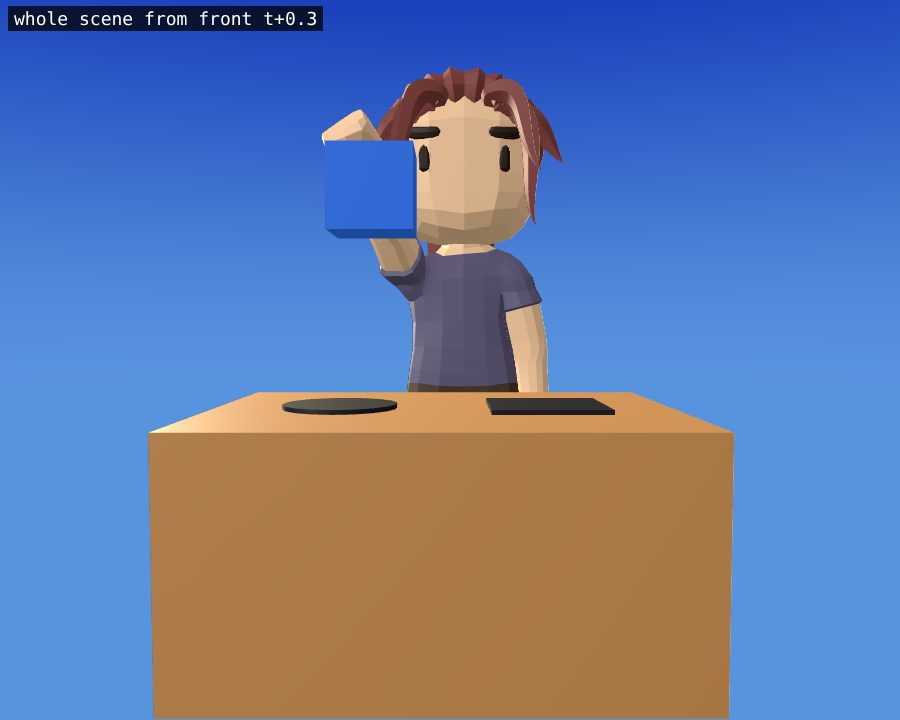
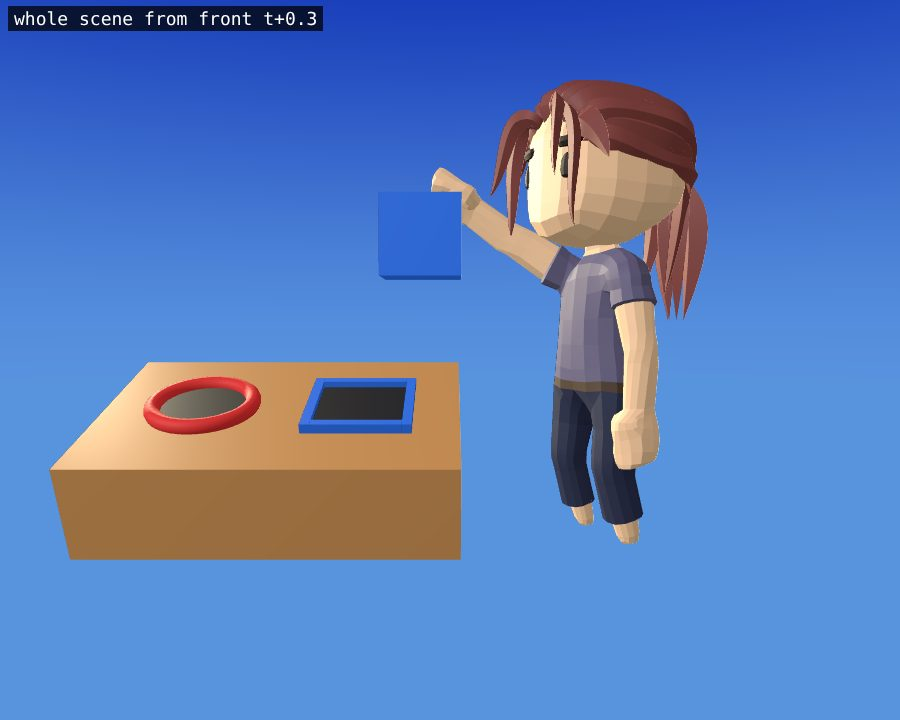
正: lower tilted box, the child beside it (Haiku, plan h12 round 2)
Claude-Session: https://claude.ai/code/session_01AzAr48Yq4uWbRR6vcwQrUQ

diff --git a/src/effects/vignettes/h-correct.js b/src/effects/vignettes/h-correct.js
@@ -1,8 +1,10 @@
-// Haiku plan h12 (card 正 "correct"): a girl with a shape-sorter box pushes the blue square block into the round hole: it
-// bumps on the top and won't go in, a red cross pops up; she lifts it over the square hole, it drops in, a green tick and
-// stars pop up and she cheers. Loop 7 s: 0-0.5 she holds the cube up; 0.5-1.2 she brings it down on the round hole and
-// pushes (a small shake); 1.2-2 red cross, she tilts her head; 2-2.8 she lifts it over the square hole; 2.8-3.4 it drops in
-// (hidden from 3.4); 3.4-4.6 green tick, stars, both arms up; 4.6-6.4 they fade; 6.4-7 a new cube grows in her hand.
+// Haiku plan h12 (card 正 "correct"), round 2: a girl beside a shape-sorter box pushes the blue square block into the round
+// hole: it bumps on the top and won't go in, a red cross pops up; she lifts it over the square hole, it drops in, a green
+// tick and stars pop up and she cheers. Loop 7 s: 0-0.5 she holds the cube up; 0.5-1.2 she brings it down on the round
+// hole and pushes (a small shake); 1.2-2 red cross, she tilts her head; 2-2.8 she lifts it over the square hole; 2.8-3.4 it
+// drops in (hidden from 3.4); 3.4-4.6 green tick, stars, both arms up; 4.6-6.4 they fade; 6.4-7 a new cube grows in her hand.
+// The box is low and tilted (its top faces the learner, the back edge higher); a red ring marks the round hole, a blue frame
+// the square one. Nothing stands between the girl and the learner.
 //   q-shape-sorter   正: a square block goes in the square hole, never in the round one
 import * as THREE from 'three';
 import { acts } from './timeline.js';
@@ -14,34 +16,47 @@ import { between } from './helpers.js';
 import { grow } from './step1-kit.js';
 import { KID, person } from './q-common.js';
 
-const Z = new THREE.Vector3(0, 0, 1), W = new THREE.Vector3();
+const W = new THREE.Vector3(), X = new THREE.Vector3(1, 0, 0), TH = 20 * Math.PI / 180;
+const BLUE = 0x2a6ae0, DARK = 0x1a1a22, RED = 0xd83030;
 // a sign's meshes carry its goal name and fly (they hang over the box on purpose)
 const named = (o, name) => o.traverse((m) => { if (m.isMesh) { m.name = name; m.userData.flies = true; } });
 
 function shapeSorter(ctx, spec, stage) {
   const u = stage.u, B = stage.box, group = new THREE.Group(), floor = B.minY;
   const girl = person('gal2', u, KID);
+  // the box, its own origin at its middle; tilted about x so its top faces the learner (the front edge is lower)
+  const lowest = 0.06 * Math.cos(TH) + 0.15 * Math.sin(TH);      // the front bottom edge sits on the ground line
+  const ring = G.torus(0.062 * u, 0.01 * u, Math.PI * 2).rotateX(Math.PI / 2).translate(-0.1 * u, 0.066 * u, 0);
+  const frame = [[0.134, 0.012, 0.012, 0, 0.066, -0.061], [0.134, 0.012, 0.012, 0, 0.066, 0.061], [0.012, 0.012, 0.134, -0.061, 0.066, 0], [0.012, 0.012, 0.134, 0.061, 0.066, 0]];
   const sorter = solidProp([
-    [G.box(0.4 * u, 0.2 * u, 0.3 * u, 0, 0.1 * u, 0), 0xc08850],
-    [G.cyl(0.05 * u, 0.05 * u, 0.004 * u, -0.09 * u, 0.2 * u + 0.002 * u, 0), 0x1a1a22],
-    [G.box(0.1 * u, 0.004 * u, 0.1 * u, 0.09 * u, 0.2 * u + 0.002 * u, 0), 0x1a1a22],
+    [G.box(0.45 * u, 0.12 * u, 0.3 * u, 0, 0, 0), 0xc08850],
+    [G.cyl(0.055 * u, 0.055 * u, 0.004 * u, -0.1 * u, 0.06 * u + 0.002 * u, 0), DARK],
+    [G.box(0.11 * u, 0.004 * u, 0.11 * u, 0.1 * u, 0.06 * u + 0.002 * u, 0), DARK],
+    [ring, RED],
+    ...frame.map(([w, h, d, x, y, z]) => [G.box(w * u, h * u, d * u, x * u + 0.1 * u, y * u, z * u), BLUE]),
   ], 0.3);
-  const cube = solidProp([[G.box(0.08 * u, 0.08 * u, 0.08 * u, 0, 0, 0), 0x2a6ae0]], 0.4);   // pivot: its middle
-  const cross = emblemProp('cross', 0.25 * u), check = emblemProp('check', 0.3 * u), sparkles = stars(u, { r: 0.13, s: 0.1, n: 5 });
+  sorter.rotation.x = TH;
+  const cube = solidProp([[G.box(0.1 * u, 0.1 * u, 0.1 * u, 0, 0, 0), BLUE]], 0.4);   // pivot: its middle
+  const cross = emblemProp('cross', 0.28 * u), check = emblemProp('check', 0.28 * u), sparkles = stars(u, { r: 0.13, s: 0.1, n: 5 });
   sorter.name = 'sorter'; cube.name = 'cube'; sparkles.name = 'sparkles';
-  named(cross, 'wrong'); named(check, 'right');   // the signs hang in the air on purpose (they pop up over the box)
-  girl.group.position.set(B.maxX + 0.95 * u, floor, -0.2 * u);                                 // behind the box, facing the learner
-  sorter.position.set(B.maxX + 0.95 * u, floor, 0.05 * u);
+  named(cross, 'wrong'); named(check, 'right');
+  // the girl beside the box on its right, turned toward the box and a little toward the learner
+  girl.group.position.set(B.maxX + 1.22 * u, floor, 0.05 * u);
+  girl.group.rotation.y = -Math.PI / 2 + 0.4;
+  const BOX = new THREE.Vector3(B.maxX + 0.85 * u, floor + lowest * u, 0.05 * u);
+  sorter.position.copy(BOX);
   group.add(girl.group, sorter, cube, cross, check, sparkles);
-  // group-local points (stage units): x from the kanji's right edge, y from the ground line, z to the learner
+  // group points (stage units): x from the kanji's right edge, y from the ground line, z to the learner
   const P = (x, y, z) => new THREE.Vector3(B.maxX + x * u, floor + y * u, z * u);
-  const UPC = P(0.84, 0.5, 0.05), RND = P(0.86, 0.24, 0.05), LFT = P(0.9, 0.36, 0.05), SQU = P(1.04, 0.36, 0.05), SQ = P(1.04, 0.24, 0.05), IN = P(1.04, 0.1, 0.05);
-  const C = new THREE.Vector3(), tmp = new THREE.Vector3(), loop = 7.0;
+  // a point on the box's top (xl along it, lift above it), in the group, for the cube and the holes
+  const top = (xl, lift) => { const v = new THREE.Vector3(xl, 0.06 + lift, 0).applyAxisAngle(X, TH).multiplyScalar(u); return v.add(BOX); };
+  const UPC = P(0.9, 0.5, 0.05), RND = top(-0.1, 0.05), LFT = top(-0.1, 0.18), SQU = top(0.1, 0.18), SQ = top(0.1, 0.05), IN = top(0.1, -0.06);
+  const C = new THREE.Vector3(), fwd = new THREE.Vector3(), a = new THREE.Vector3(), b = new THREE.Vector3(), loop = 7.0;
   return {
     group,
     step(t) {
       const A = acts(ctx, t, loop), pre = A.u < 0, v = pre ? 0 : A.v;
-      const ws = group.getWorldScale(W).y, rc = 0.06 * u * ws;   // the cube's half-width plus a gap: the fist's palm clears its corner
+      const ws = group.getWorldScale(W).y, rc = 0.07 * u * ws;   // the cube's half-width (0.05u) plus a gap: the palm clears its corner
       girl.pose('Idle', t);
       // the cube's centre in the group: held up, down on the round hole, lifted, over the square hole (in her hand)
       if (v < 0.5) C.copy(UPC);
@@ -51,10 +66,11 @@ function shapeSorter(ctx, spec, stage) {
       else if (v < 2.4) C.lerpVectors(LFT, SQU, between(v, 2.0, 2.4));
       else if (v < 6.4) C.lerpVectors(SQU, SQ, between(v, 2.4, 2.8));
       else C.copy(UPC);                                                                 // a new cube, back in her hand
-      C.x += 0.006 * u * Math.sin(v * 60) * (pre ? 0 : between(v, 1.0, 1.1) * (1 - between(v, 1.2, 1.5)));   // the bump shake
+      C.add(a.set(0.006 * u * Math.sin(v * 60) * (pre ? 0 : between(v, 1.0, 1.1) * (1 - between(v, 1.2, 1.5))), 0, 0));   // the bump shake
       // her right hand holds it until it is released at 2.8-3.0, then again for the new cube at 6.4-6.9
       const kG = pre ? A.setup : Math.max(1 - between(v, 2.8, 3.0), between(v, 6.4, 6.9));
-      const palmToward = tmp.copy(Z).transformDirection(group.matrixWorld);
+      // the palm faces the way she faces (the cube is in front of her)
+      const palmToward = fwd.copy(girl.local(0, 0, 1, b)).sub(girl.local(0, 0, 0, a)).normalize();
       girl.grip('R', group.localToWorld(C.clone()), palmToward, rc, kG, { out: 0.9, down: 0.5 });
       girl.hold(cube, 'R', group, rc);
       // it drops into the square hole and is inside the box from 3.4 (hidden), then a new cube grows in her hand
@@ -63,15 +79,16 @@ function shapeSorter(ctx, spec, stage) {
       cube.scale.setScalar(!pre && v >= 6.4 ? grow(between(v, 6.4, 7.0)) : 1);
       // head tilts at the wrong hole
       girl.turn('Head', 0, 0, 0.25 * between(v, 1.2, 1.5) * (1 - between(v, 1.8, 2.0)));
-      // the red cross for the round hole, the green tick and stars for the square one
+      // the red cross for the round hole, the green tick and stars for the square one, over the box
+      const over = P(0.85, 0.6, 0.05);
       const kX = pre ? 0 : between(v, 1.2, 1.4) * (1 - between(v, 1.9, 2.0)), kT = pre ? 0 : between(v, 3.4, 3.6) * (1 - between(v, 4.6, 4.9));
-      cross.visible = kX > 0.01; cross.scale.setScalar(0.25 * u * grow(kX)); cross.position.set(B.maxX + 0.95 * u, floor + 0.5 * u, 0.1 * u);
+      cross.visible = kX > 0.01; cross.scale.setScalar(0.28 * u * grow(kX)); cross.position.copy(over);
       cross.rotation.z = 0.25 * Math.sin((v - 1.2) * 14) * kX;
-      check.visible = kT > 0.01; check.scale.setScalar(0.3 * u * grow(kT)); check.position.set(B.maxX + 0.95 * u, floor + 0.5 * u, 0.1 * u);
+      check.visible = kT > 0.01; check.scale.setScalar(0.28 * u * grow(kT)); check.position.copy(over);
       const kS = pre ? 0 : between(v, 3.5, 3.8) * (1 - between(v, 4.6, 5.0));
-      sparkles.visible = kS > 0.01; sparkles.scale.setScalar(grow(kS)); sparkles.position.set(B.maxX + 0.95 * u, floor + 0.5 * u, 0.1 * u);
+      sparkles.visible = kS > 0.01; sparkles.scale.setScalar(grow(kS)); sparkles.position.copy(over);
       sparkles.rotation.y = v * 2;
-      // she cheers: both arms up, a little bounce
+      // she cheers: both arms up
       const cheer = pre ? 0 : between(v, 3.4, 3.8) * (1 - between(v, 4.6, 5.0));
       girl.handTo('R', girl.local(-0.3, 1.1, 0.05), cheer, { out: 0.9, down: 0.4 });
       girl.handTo('L', girl.local(0.3, 1.1, 0.05), cheer, { out: 0.9, down: 0.4 });
